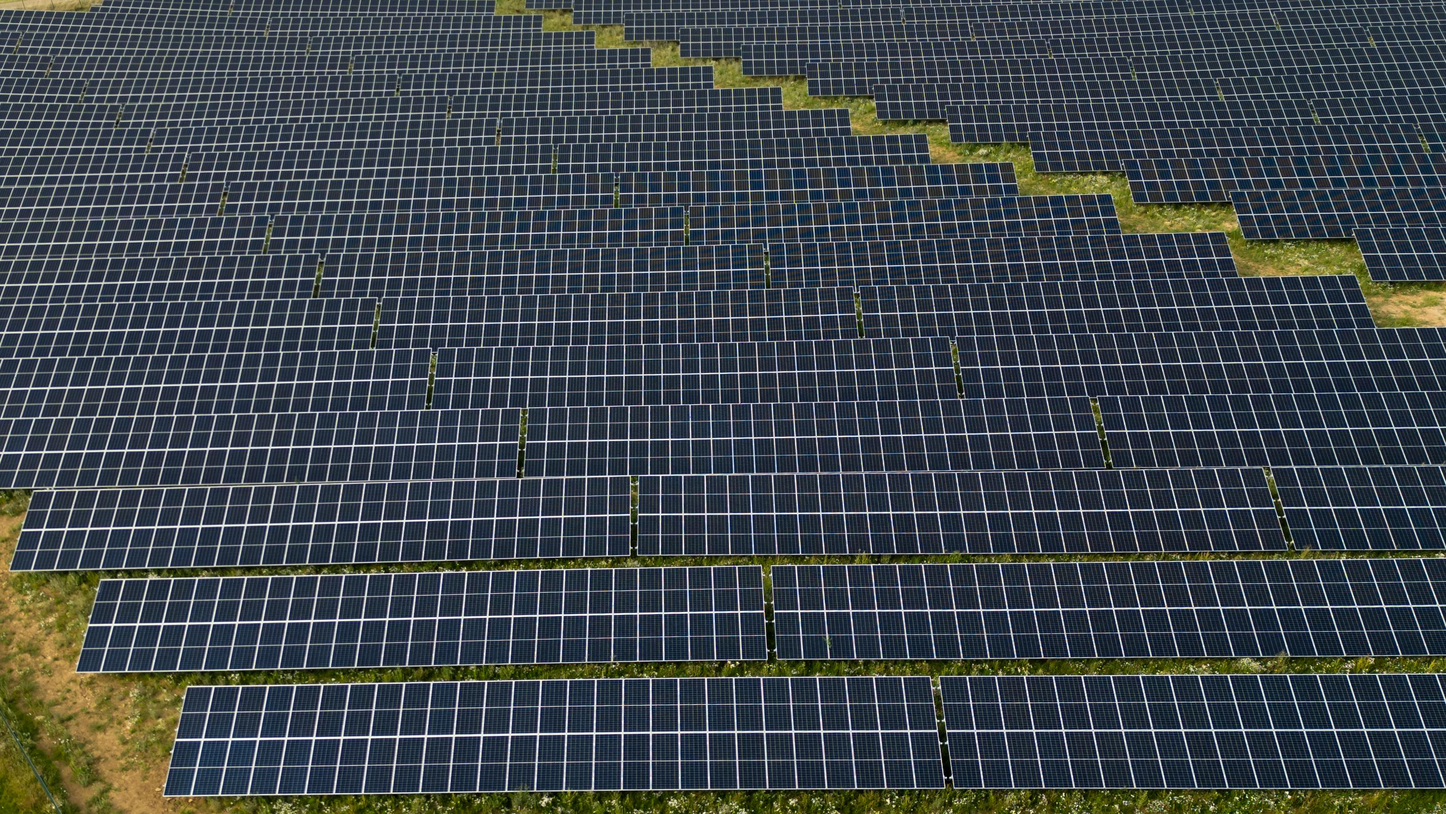
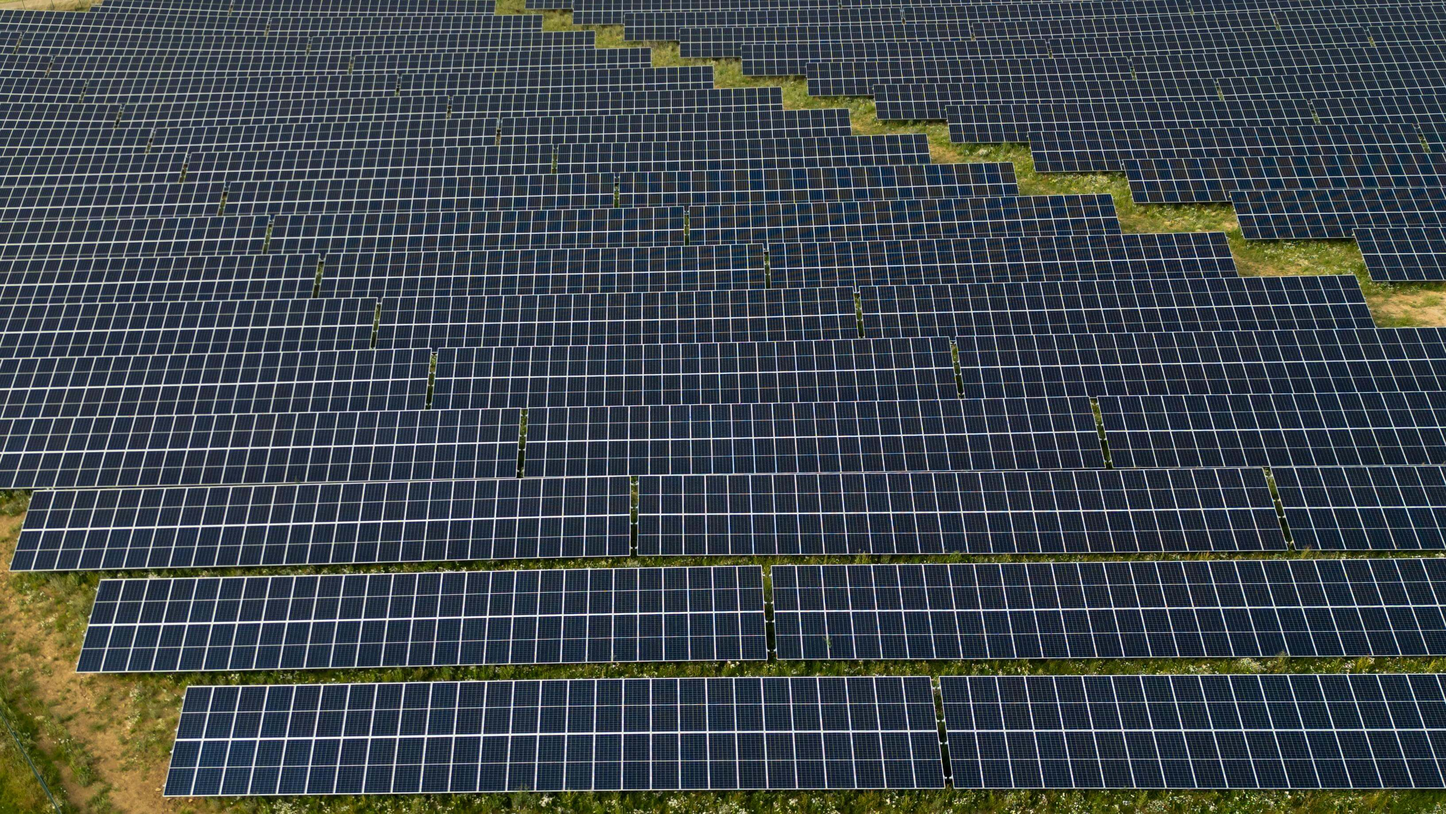
fix: optimized images

diff --git a/components/footer.tsx b/components/footer.tsx
@@ -31,6 +31,18 @@ const Footer: React.FC = () => {
             </p>
           </div>
         );
+      case "/business-owners":
+        return (
+          <div className="">
+            <h2 className="text-6xl font-medium mb-4">Start Saving Today</h2>
+            <p className="text-lg font-medium mb-8">
+              Whether you’d like to be carbon neutral, want to reduce sky-high
+              electricity bills, or need to fulfill building mandates, Enphase
+              and our solar installation partners can design a system that will
+              meet the unique demands of your property and business.
+            </p>
+          </div>
+        );
       default:
         return (
           <div className="container mx-auto px-4 py-8 text-black ">

diff --git a/components/navbar.tsx b/components/navbar.tsx
@@ -2,6 +2,7 @@ import React, { useState } from "react";
 import Link from "next/link";
 import { Menu, X } from "lucide-react";
 import { motion, AnimatePresence } from "framer-motion";
+import Image from "next/image";
 
 const Navbar: React.FC = () => {
   const [isMenuOpen, setIsMenuOpen] = useState(false);
@@ -48,10 +49,11 @@ const Navbar: React.FC = () => {
         {/* Company logo */}
         <div>
           <Link href="/">
-            <img
+            <Image
+              height={32}
+              width={64}
               src="/images/fge-logo.png"
               alt="Company Logo"
-              className="h-8"
             />
           </Link>
         </div>
